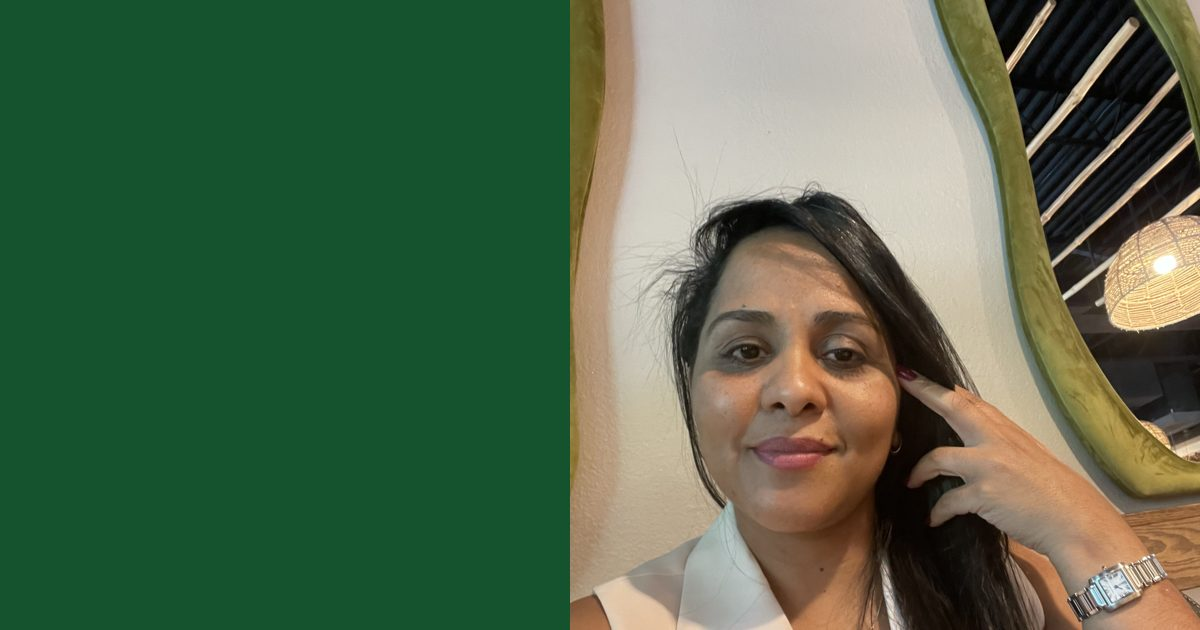
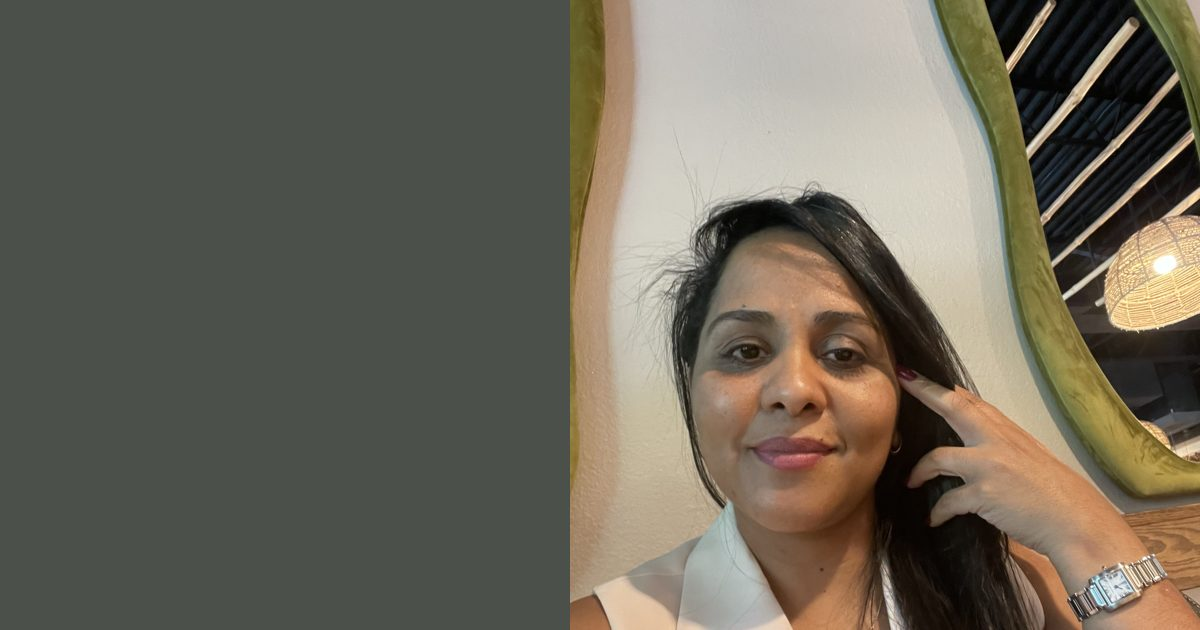
Update color palette to new green tones

diff --git a/cristiane-seo-website/src/index.css b/cristiane-seo-website/src/index.css
@@ -2,38 +2,40 @@
 @tailwind components;
 @tailwind utilities;
 
-/* ===== Brand palette — edit these RGB triplets to re-theme the whole site ===== */
+/* ===== Brand palette — edit these RGB triplets to re-theme the whole site =====
+   Contrast guide (WCAG AA): body/heading text = darkest on white/lightest/light.
+   On darkest backgrounds use white or lightest text. Never put white text on medium or light. */
 :root {
-  --color-primary: 22 101 52;       /* dark green  #166534 */
-  --color-primary-dark: 20 83 45;   /* deeper green #14532d */
-  --color-accent: 134 239 172;      /* light green #86efac */
-  --color-accent-soft: 236 253 243; /* very light green #ecfdf3 */
-  --color-ink: 15 23 42;            /* text #0f172a */
+  --color-lightest: 205 231 202; /* #cde7ca  page/section backgrounds, soft cards */
+  --color-light: 178 212 182;    /* #b2d4b6  borders, hover backgrounds, secondary surfaces */
+  --color-medium: 144 180 147;   /* #90b493  accents, highlights, icons, focus rings */
+  --color-muted: 114 131 112;    /* #728370  secondary buttons/borders, large secondary text */
+  --color-darkest: 75 81 74;     /* #4b514a  headings, body text, primary buttons, header/footer */
 }
 
 @layer base {
   html { scroll-behavior: smooth; }
-  body { @apply bg-white font-sans text-ink antialiased; }
-  h1, h2, h3, h4 { @apply font-bold tracking-tight text-primary-dark; }
+  body { @apply bg-white font-sans text-brand-darkest antialiased; }
+  h1, h2, h3, h4 { @apply font-bold tracking-tight text-brand-darkest; }
   a { @apply transition-colors; }
-  :focus-visible { @apply outline-none ring-2 ring-primary ring-offset-2; }
+  :focus-visible { @apply outline-none ring-2 ring-brand-medium ring-offset-2; }
 }
 
 @layer components {
   .container-page { @apply mx-auto w-full max-w-6xl px-4 sm:px-6 lg:px-8; }
   .btn { @apply inline-flex items-center justify-center gap-2 rounded-full px-5 py-2.5 text-sm font-semibold transition disabled:cursor-not-allowed disabled:opacity-60; }
-  .btn-primary { @apply btn bg-primary text-white hover:bg-primary-dark; }
-  .btn-accent { @apply btn bg-accent text-primary-dark hover:brightness-95; }
-  .btn-outline { @apply btn border border-primary text-primary hover:bg-accent-soft; }
-  .btn-ghost { @apply btn text-primary hover:bg-accent-soft; }
+  .btn-primary { @apply btn bg-brand-darkest text-white hover:brightness-125; }
+  .btn-accent { @apply btn border border-brand-medium bg-brand-light text-brand-darkest hover:bg-brand-lightest; }
+  .btn-outline { @apply btn border border-brand-muted text-brand-darkest hover:bg-brand-light; }
+  .btn-ghost { @apply btn text-brand-darkest hover:bg-brand-light; }
   .btn-danger { @apply btn bg-red-600 text-white hover:bg-red-700; }
   .btn-sm { @apply px-3 py-1.5 text-xs; }
-  .card { @apply rounded-2xl border border-green-100 bg-white p-6 shadow-sm; }
-  .input { @apply w-full rounded-lg border border-slate-300 px-3 py-2 text-sm focus:border-primary focus:outline-none focus:ring-2 focus:ring-accent; }
+  .card { @apply rounded-2xl border border-brand-light bg-white p-6 shadow-sm; }
+  .input { @apply w-full rounded-lg border border-slate-300 px-3 py-2 text-sm focus:border-brand-darkest focus:outline-none focus:ring-2 focus:ring-brand-medium; }
   .label { @apply mb-1 block text-sm font-medium text-slate-700; }
   .badge { @apply inline-flex items-center rounded-full px-2.5 py-0.5 text-xs font-semibold; }
   .table-base { @apply min-w-full divide-y divide-slate-200 text-sm; }
-  .table-base th { @apply bg-accent-soft px-3 py-2 text-left font-semibold text-primary-dark; }
+  .table-base th { @apply bg-brand-lightest px-3 py-2 text-left font-semibold text-brand-darkest; }
   .table-base td { @apply px-3 py-2 align-top; }
   .section-title { @apply mb-8 text-3xl font-extrabold sm:text-4xl; }
 }
@@ -45,13 +47,14 @@
 .prose-content p { @apply mb-4; }
 .prose-content ul { @apply mb-4 list-disc pl-6; }
 .prose-content ol { @apply mb-4 list-decimal pl-6; }
-.prose-content a { @apply text-primary underline; }
-.prose-content blockquote { @apply my-4 border-l-4 border-accent pl-4 italic; }
+.prose-content a { @apply text-brand-darkest underline decoration-brand-medium decoration-2 underline-offset-2; }
+.prose-content blockquote { @apply my-4 border-l-4 border-brand-medium pl-4 italic; }
 .prose-content img { @apply my-6 h-auto max-w-full rounded-xl; }
 .prose-content code { @apply rounded bg-slate-100 px-1; }
-.ProseMirror { @apply min-h-[320px] p-4 focus:outline-none; }
+.ProseMirror { @apply min-h-[320px] p-4 focus:outline-none; caret-color: rgb(var(--color-darkest)); }
+.ProseMirror ::selection { background: rgb(var(--color-light)); }
 .ProseMirror p.is-editor-empty:first-child::before { content: attr(data-placeholder); @apply pointer-events-none float-left h-0 text-slate-400; }
 
 /* FullCalendar brand tweaks */
-.fc { --fc-button-bg-color: rgb(var(--color-primary)); --fc-button-border-color: rgb(var(--color-primary)); --fc-button-hover-bg-color: rgb(var(--color-primary-dark)); --fc-button-active-bg-color: rgb(var(--color-primary-dark)); --fc-today-bg-color: rgb(var(--color-accent-soft)); font-size: 0.85rem; }
+.fc { --fc-button-bg-color: rgb(var(--color-darkest)); --fc-button-border-color: rgb(var(--color-darkest)); --fc-button-hover-bg-color: rgb(var(--color-muted)); --fc-button-hover-border-color: rgb(var(--color-muted)); --fc-button-active-bg-color: rgb(var(--color-muted)); --fc-button-active-border-color: rgb(var(--color-muted)); --fc-today-bg-color: rgb(var(--color-lightest) / 0.6); --fc-border-color: rgb(var(--color-light)); --fc-now-indicator-color: rgb(var(--color-darkest)); font-size: 0.85rem; }
 .fc .fc-event { cursor: pointer; }

diff --git a/cristiane-seo-website/src/components/Layout.tsx b/cristiane-seo-website/src/components/Layout.tsx
@@ -29,15 +29,15 @@ export default function Layout() {
   const dispatch = useAppDispatch()
   const navigate = useNavigate()
   const linkCls = ({ isActive }: { isActive: boolean }) =>
-    `rounded-full px-3 py-2 text-sm font-medium ${isActive ? 'bg-white/15 text-white' : 'text-green-50 hover:text-accent'}`
+    `rounded-full px-3 py-2 text-sm font-medium ${isActive ? 'bg-white/15 text-white' : 'text-brand-lightest hover:text-white'}`
 
   return (
     <div className="flex min-h-screen flex-col">
       <a href="#main" className="sr-only focus:not-sr-only">Skip to content</a>
-      <header className="sticky top-0 z-40 bg-primary-dark shadow">
+      <header className="sticky top-0 z-40 bg-brand-darkest shadow">
         <div className="container-page flex h-16 items-center justify-between gap-4">
           <Link to="/" className="text-lg font-extrabold text-white">
-            Cristiane <span className="text-accent">Abreu</span>
+            Cristiane <span className="text-brand-light">Abreu</span>
           </Link>
           <nav className="hidden items-center gap-1 lg:flex" aria-label="Main">
             {nav.map((n) => <NavLink key={n.to} to={n.to} end={n.to === '/'} className={linkCls}>{n.label}</NavLink>)}
@@ -46,7 +46,7 @@ export default function Layout() {
             {user ? (
               <>
                 <NavLink to={isManager ? '/admin' : '/account'} className={linkCls}>{isManager ? 'Admin' : 'My account'}</NavLink>
-                <button className="text-sm text-green-100 hover:text-white" onClick={() => signOut(auth).then(() => navigate('/'))}>Log out</button>
+                <button className="text-sm text-brand-lightest hover:text-white" onClick={() => signOut(auth).then(() => navigate('/'))}>Log out</button>
               </>
             ) : (
               <NavLink to="/login" className={linkCls}>Log in</NavLink>
@@ -63,7 +63,7 @@ export default function Layout() {
             {user ? (
               <>
                 <NavLink to={isManager ? '/admin' : '/account'} className={linkCls}>{isManager ? 'Admin' : 'My account'}</NavLink>
-                <button className="px-3 py-2 text-left text-sm text-green-100" onClick={() => signOut(auth)}>Log out</button>
+                <button className="px-3 py-2 text-left text-sm text-brand-lightest" onClick={() => signOut(auth)}>Log out</button>
               </>
             ) : (
               <NavLink to="/login" className={linkCls}>Log in</NavLink>
@@ -78,24 +78,24 @@ export default function Layout() {
         </div>
       )}
       <main id="main" className="flex-1"><Outlet /></main>
-      <footer className="bg-primary-dark text-green-50">
+      <footer className="bg-brand-darkest text-brand-lightest">
         <div className="container-page grid gap-8 py-10 md:grid-cols-3">
           <div>
             <p className="text-lg font-bold text-white">Cristiane Abreu</p>
-            <p className="mt-2 text-sm text-green-100">Local SEO & Digital Marketing for local businesses.</p>
-            <a href={`tel:${PHONE}`} className="mt-2 block text-sm hover:text-accent">{PHONE}</a>
+            <p className="mt-2 text-sm text-brand-lightest">Local SEO & Digital Marketing for local businesses.</p>
+            <a href={`tel:${PHONE}`} className="mt-2 block text-sm hover:text-white">{PHONE}</a>
           </div>
           <nav className="grid grid-cols-2 gap-2 text-sm" aria-label="Footer">
-            {nav.map((n) => <Link key={n.to} to={n.to} className="hover:text-accent">{n.label}</Link>)}
+            {nav.map((n) => <Link key={n.to} to={n.to} className="hover:text-white">{n.label}</Link>)}
           </nav>
           <div className="flex flex-col gap-2 text-sm">
-            <a href={SOCIAL.linkedin} target="_blank" rel="noopener noreferrer" className="hover:text-accent">LinkedIn</a>
-            <a href={SOCIAL.github} target="_blank" rel="noopener noreferrer" className="hover:text-accent">GitHub</a>
-            <a href={SOCIAL.facebook} target="_blank" rel="noopener noreferrer" className="hover:text-accent">Facebook</a>
-            <a href={SOCIAL.google} target="_blank" rel="noopener noreferrer" className="hover:text-accent">Google</a>
+            <a href={SOCIAL.linkedin} target="_blank" rel="noopener noreferrer" className="hover:text-white">LinkedIn</a>
+            <a href={SOCIAL.github} target="_blank" rel="noopener noreferrer" className="hover:text-white">GitHub</a>
+            <a href={SOCIAL.facebook} target="_blank" rel="noopener noreferrer" className="hover:text-white">Facebook</a>
+            <a href={SOCIAL.google} target="_blank" rel="noopener noreferrer" className="hover:text-white">Google</a>
           </div>
         </div>
-        <p className="border-t border-white/10 py-4 text-center text-xs text-green-200">© {new Date().getFullYear()} Cristiane Abreu. All rights reserved.</p>
+        <p className="border-t border-white/10 py-4 text-center text-xs text-brand-light">© {new Date().getFullYear()} Cristiane Abreu. All rights reserved.</p>
       </footer>
     </div>
   )

diff --git a/cristiane-seo-website/src/pages/Home.tsx b/cristiane-seo-website/src/pages/Home.tsx
@@ -17,19 +17,19 @@ export default function Home() {
   return (
     <>
       <Seo title={s.meta.home.title} description={s.meta.home.description} path="/" jsonLd={[personLd, businessLd]} />
-      <section className="bg-gradient-to-br from-primary-dark via-primary to-green-600 text-white">
+      <section className="bg-brand-darkest text-white">
         <div className="container-page grid items-center gap-10 py-16 md:grid-cols-2 md:py-24">
           <div>
-            <p className="mb-3 inline-block rounded-full bg-white/10 px-3 py-1 text-sm font-semibold text-accent">Local SEO & Digital Marketing</p>
+            <p className="mb-3 inline-block rounded-full bg-white/10 px-3 py-1 text-sm font-semibold text-brand-lightest">Local SEO & Digital Marketing</p>
             <h1 className="text-4xl font-extrabold leading-tight text-white sm:text-5xl">{s.heroTitle}</h1>
-            <p className="mt-5 text-lg text-green-50">{s.heroSubtitle}</p>
+            <p className="mt-5 text-lg text-brand-lightest">{s.heroSubtitle}</p>
             <div className="mt-8 flex flex-wrap gap-3">
               <BookButton className="btn-accent" />
               <Link to="/contact" className="btn border border-white/60 text-white hover:bg-white/10">Contact me</Link>
             </div>
           </div>
           <img src="/images/cristiane-abreu.webp" alt="Cristiane Abreu, Local SEO specialist" width={900} height={1200}
-            className="mx-auto aspect-[3/4] w-full max-w-sm rounded-3xl object-cover shadow-2xl ring-4 ring-accent/40" fetchPriority="high" />
+            className="mx-auto aspect-[3/4] w-full max-w-sm rounded-3xl object-cover shadow-2xl ring-4 ring-brand-medium/60" fetchPriority="high" />
         </div>
       </section>
 
@@ -83,10 +83,10 @@ export default function Home() {
         </section>
       )}
 
-      <section className="bg-primary-dark py-14 text-center text-white">
+      <section className="bg-brand-darkest py-14 text-center text-white">
         <div className="container-page">
           <h2 className="text-3xl text-white">Ready to get more customers from Google?</h2>
-          <p className="mx-auto mt-3 max-w-2xl text-green-100">Book a free consultation and get a clear Local SEO action plan for your business.</p>
+          <p className="mx-auto mt-3 max-w-2xl text-brand-lightest">Book a free consultation and get a clear Local SEO action plan for your business.</p>
           <div className="mt-6"><BookButton /></div>
         </div>
       </section>

diff --git a/cristiane-seo-website/src/admin/Users.tsx b/cristiane-seo-website/src/admin/Users.tsx
@@ -33,7 +33,7 @@ export default function Users() {
       <h1 className="text-3xl">Users</h1>
       <input className="input max-w-md" placeholder="Search by first or last name…" value={q} onChange={(e) => setQ(e.target.value)} aria-label="Search users" />
       {err && <p className="text-sm text-red-600">{err}</p>}
-      <div className="overflow-x-auto rounded-2xl border border-green-100 bg-white">
+      <div className="overflow-x-auto rounded-2xl border border-brand-light bg-white">
         <table className="table-base">
           <thead><tr><th>Last name</th><th>First name</th><th>Email</th><th>Phone</th><th>Business</th><th>Type</th><th>Location</th><th>Role</th><th>Status</th><th>Joined</th><th>Actions</th></tr></thead>
           <tbody className="divide-y divide-slate-100">
@@ -43,7 +43,7 @@ export default function Users() {
                 <td>{u.email}{u.contactEmail && u.contactEmail !== u.email && <div className="text-xs text-slate-500">{u.contactEmail}</div>}</td>
                 <td>{u.phone}</td><td>{u.businessName}</td><td>{u.businessType}</td><td>{u.businessLocation}</td>
                 <td>{u.role}</td>
-                <td><span className={`badge ${u.blocked ? 'bg-red-100 text-red-700' : 'bg-green-100 text-green-800'}`}>{u.blocked ? 'Blocked' : 'Active'}</span></td>
+                <td><span className={`badge ${u.blocked ? 'bg-red-100 text-red-700' : 'bg-brand-light text-brand-darkest'}`}>{u.blocked ? 'Blocked' : 'Active'}</span></td>
                 <td className="whitespace-nowrap">{u.createdAt ? fmtDate(u.createdAt) : ''}</td>
                 <td className="whitespace-nowrap">
                   <button className="btn-ghost btn-sm" onClick={() => setEdit(u)}>View / edit</button>

diff --git a/cristiane-seo-website/src/admin/Bookings.tsx b/cristiane-seo-website/src/admin/Bookings.tsx
@@ -45,7 +45,7 @@ export default function Bookings() {
         <button className="btn-primary" onClick={exportSheets}>Export to Google Sheet</button>
       </div>
       {msg && <p className="text-sm text-slate-600">{msg}</p>}
-      <div className="overflow-x-auto rounded-2xl border border-green-100 bg-white">
+      <div className="overflow-x-auto rounded-2xl border border-brand-light bg-white">
         <table className="table-base">
           <thead><tr><th>Client name</th><th>Booking time</th><th>Type of business</th><th>Email</th><th>Status</th><th>Actions</th></tr></thead>
           <tbody className="divide-y divide-slate-100">
@@ -53,7 +53,7 @@ export default function Bookings() {
               <tr key={a.id}>
                 <td className="font-medium">{a.clientName}</td><td className="whitespace-nowrap">{fmtDateTime(a.start)}</td>
                 <td>{a.businessType || '—'}</td><td>{a.email}</td>
-                <td><span className={`badge ${a.status === 'booked' ? 'bg-green-100 text-green-800' : a.status === 'cancelled' ? 'bg-red-100 text-red-700' : 'bg-slate-100'}`}>{a.status}</span></td>
+                <td><span className={`badge ${a.status === 'booked' ? 'bg-brand-light text-brand-darkest' : a.status === 'cancelled' ? 'bg-red-100 text-red-700' : 'bg-slate-100'}`}>{a.status}</span></td>
                 <td className="whitespace-nowrap">
                   {a.status === 'booked' && <>
                     <button className="btn-ghost btn-sm" onClick={() => dispatch(updateAppointment({ id: a.id, status: 'completed' }))}>Complete</button>

diff --git a/cristiane-seo-website/tailwind.config.ts b/cristiane-seo-website/tailwind.config.ts
@@ -1,6 +1,6 @@
 import type { Config } from 'tailwindcss'
 
-// Brand colours are CSS variables (see src/index.css) so they are easy to tweak in one place.
+// Brand colours are CSS variables (see the top of src/index.css) so the whole site is re-themed in one place.
 const withVar = (name: string) => `rgb(var(${name}) / <alpha-value>)`
 
 export default {
@@ -8,9 +8,18 @@ export default {
   theme: {
     extend: {
       colors: {
-        primary: { DEFAULT: withVar('--color-primary'), dark: withVar('--color-primary-dark') },
-        accent: { DEFAULT: withVar('--color-accent'), soft: withVar('--color-accent-soft') },
-        ink: withVar('--color-ink'),
+        // The 5-colour palette: bg-brand-lightest, text-brand-darkest, border-brand-light, ...
+        brand: {
+          lightest: withVar('--color-lightest'), // #cde7ca
+          light: withVar('--color-light'), //       #b2d4b6
+          medium: withVar('--color-medium'), //     #90b493
+          muted: withVar('--color-muted'), //       #728370
+          darkest: withVar('--color-darkest'), //   #4b514a
+        },
+        // Semantic aliases used throughout the components (mapped onto the palette above).
+        primary: { DEFAULT: withVar('--color-darkest'), dark: withVar('--color-darkest') },
+        accent: { DEFAULT: withVar('--color-medium'), soft: withVar('--color-lightest') },
+        ink: withVar('--color-darkest'),
       },
       fontFamily: { sans: ['Inter', 'system-ui', 'sans-serif'] },
     },

diff --git a/cristiane-seo-website/src/pages/Account.tsx b/cristiane-seo-website/src/pages/Account.tsx
@@ -98,7 +98,7 @@ export default function Account() {
   if (!user || !profile) return <div className="container-page py-20 text-slate-500">Loading your account…</div>
 
   const open = slots.filter((s) => !s.booked && s.start > Date.now())
-  const events = open.map((s) => ({ id: s.id, title: 'Available', start: s.start, end: s.end, color: '#16a34a' }))
+  const events = open.map((s) => ({ id: s.id, title: 'Available', start: s.start, end: s.end, color: '#90b493', textColor: '#4b514a' }))
   const profileComplete = profile.firstName && profile.lastName
 
   async function confirm() {
@@ -170,7 +170,7 @@ export default function Account() {
                   <p className="text-xs text-slate-500">{a.notes || 'No notes'}</p>
                 </div>
                 <div className="flex items-center gap-2">
-                  <span className={`badge ${a.status === 'booked' ? 'bg-green-100 text-green-800' : a.status === 'cancelled' ? 'bg-red-100 text-red-700' : 'bg-slate-100'}`}>{a.status}</span>
+                  <span className={`badge ${a.status === 'booked' ? 'bg-brand-light text-brand-darkest' : a.status === 'cancelled' ? 'bg-red-100 text-red-700' : 'bg-slate-100'}`}>{a.status}</span>
                   {a.status === 'booked' && a.start > Date.now() && (
                     <>
                       <button className="btn-ghost btn-sm" onClick={() => {

diff --git a/cristiane-seo-website/src/admin/AdminLayout.tsx b/cristiane-seo-website/src/admin/AdminLayout.tsx
@@ -10,12 +10,12 @@ export default function AdminLayout() {
   return (
     <div className="container-page grid gap-6 py-8 lg:grid-cols-[220px_1fr]">
       <Seo title="Admin | Cristiane Abreu" description="Admin dashboard" noindex />
-      <aside className="rounded-2xl bg-primary-dark p-3 lg:sticky lg:top-20 lg:self-start">
-        <p className="px-3 pb-2 text-xs font-bold uppercase tracking-wider text-accent">Admin</p>
+      <aside className="rounded-2xl bg-brand-darkest p-3 lg:sticky lg:top-20 lg:self-start">
+        <p className="px-3 pb-2 text-xs font-bold uppercase tracking-wider text-brand-lightest">Admin</p>
         <nav className="flex gap-1 overflow-x-auto lg:flex-col">
           {links.map(([to, label]) => (
             <NavLink key={to} to={to} end={to === '/admin'}
-              className={({ isActive }) => `whitespace-nowrap rounded-lg px-3 py-2 text-sm ${isActive ? 'bg-accent text-primary-dark font-semibold' : 'text-green-50 hover:bg-white/10'}`}>
+              className={({ isActive }) => `whitespace-nowrap rounded-lg px-3 py-2 text-sm ${isActive ? 'bg-brand-lightest text-brand-darkest font-semibold' : 'text-brand-lightest hover:bg-white/10'}`}>
               {label}
             </NavLink>
           ))}

diff --git a/cristiane-seo-website/src/pages/Contact.tsx b/cristiane-seo-website/src/pages/Contact.tsx
@@ -39,7 +39,7 @@ export default function Contact() {
             <input id="email" type="email" required className="input" value={form.email} onChange={(e) => setForm({ ...form, email: e.target.value })} /></div>
           <div><label className="label" htmlFor="message">Message</label>
             <textarea id="message" required rows={6} maxLength={3000} className="input" value={form.message} onChange={(e) => setForm({ ...form, message: e.target.value })} /></div>
-          {status.ok && <p className="text-sm text-green-700">{status.ok}</p>}
+          {status.ok && <p className="text-sm text-brand-darkest font-medium">{status.ok}</p>}
           {status.err && <p className="text-sm text-red-600">{status.err}</p>}
           <button className="btn-primary" disabled={status.busy}>{status.busy ? 'Sending…' : 'Send message'}</button>
         </form>

diff --git a/cristiane-seo-website/src/admin/CalendarManager.tsx b/cristiane-seo-website/src/admin/CalendarManager.tsx
@@ -19,7 +19,7 @@ export default function CalendarManager() {
   const apptBySlot = new Map(appts.filter((a) => a.status === 'booked').map((a) => [a.slotId, a]))
   const events = slots.map((s) => {
     const a = apptBySlot.get(s.id)
-    return { id: s.id, start: s.start, end: s.end, title: a ? `Booked: ${a.clientName}` : 'Open', color: a ? '#14532d' : '#4ade80', textColor: a ? '#fff' : '#14532d', editable: !a }
+    return { id: s.id, start: s.start, end: s.end, title: a ? `Booked: ${a.clientName}` : 'Open', color: a ? '#4b514a' : '#b2d4b6', textColor: a ? '#ffffff' : '#4b514a', editable: !a }
   })
   const sel = slots.find((s) => s.id === selectedId)
   const selAppt = sel ? apptBySlot.get(sel.id) : undefined

diff --git a/cristiane-seo-website/src/pages/AuthPages.tsx b/cristiane-seo-website/src/pages/AuthPages.tsx
@@ -115,7 +115,7 @@ export function ForgotPassword() {
     <Shell title="Reset your password">
       <form onSubmit={submit} className="space-y-4">
         <div><label className="label" htmlFor="email">Email</label><input id="email" type="email" required className="input" value={email} onChange={(e) => setEmail(e.target.value)} /></div>
-        {msg && <p className="text-sm text-green-700">{msg}</p>}
+        {msg && <p className="text-sm text-brand-darkest font-medium">{msg}</p>}
         {err && <p className="text-sm text-red-600">{err}</p>}
         <button className="btn-primary w-full" disabled={!firebaseReady}>Send reset link</button>
       </form>

diff --git a/cristiane-seo-website/src/admin/Posts.tsx b/cristiane-seo-website/src/admin/Posts.tsx
@@ -6,7 +6,7 @@ import { fmtDateTime } from '@/lib/utils'
 import { useAppDispatch, useAppSelector } from '@/store'
 import { deletePost, fetchAllPosts } from '@/store/postsSlice'
 
-const badge = { draft: 'bg-slate-100 text-slate-700', scheduled: 'bg-yellow-100 text-yellow-800', published: 'bg-green-100 text-green-800' }
+const badge = { draft: 'bg-slate-100 text-slate-700', scheduled: 'bg-yellow-100 text-yellow-800', published: 'bg-brand-light text-brand-darkest' }
 
 export default function Posts() {
   const dispatch = useAppDispatch()
